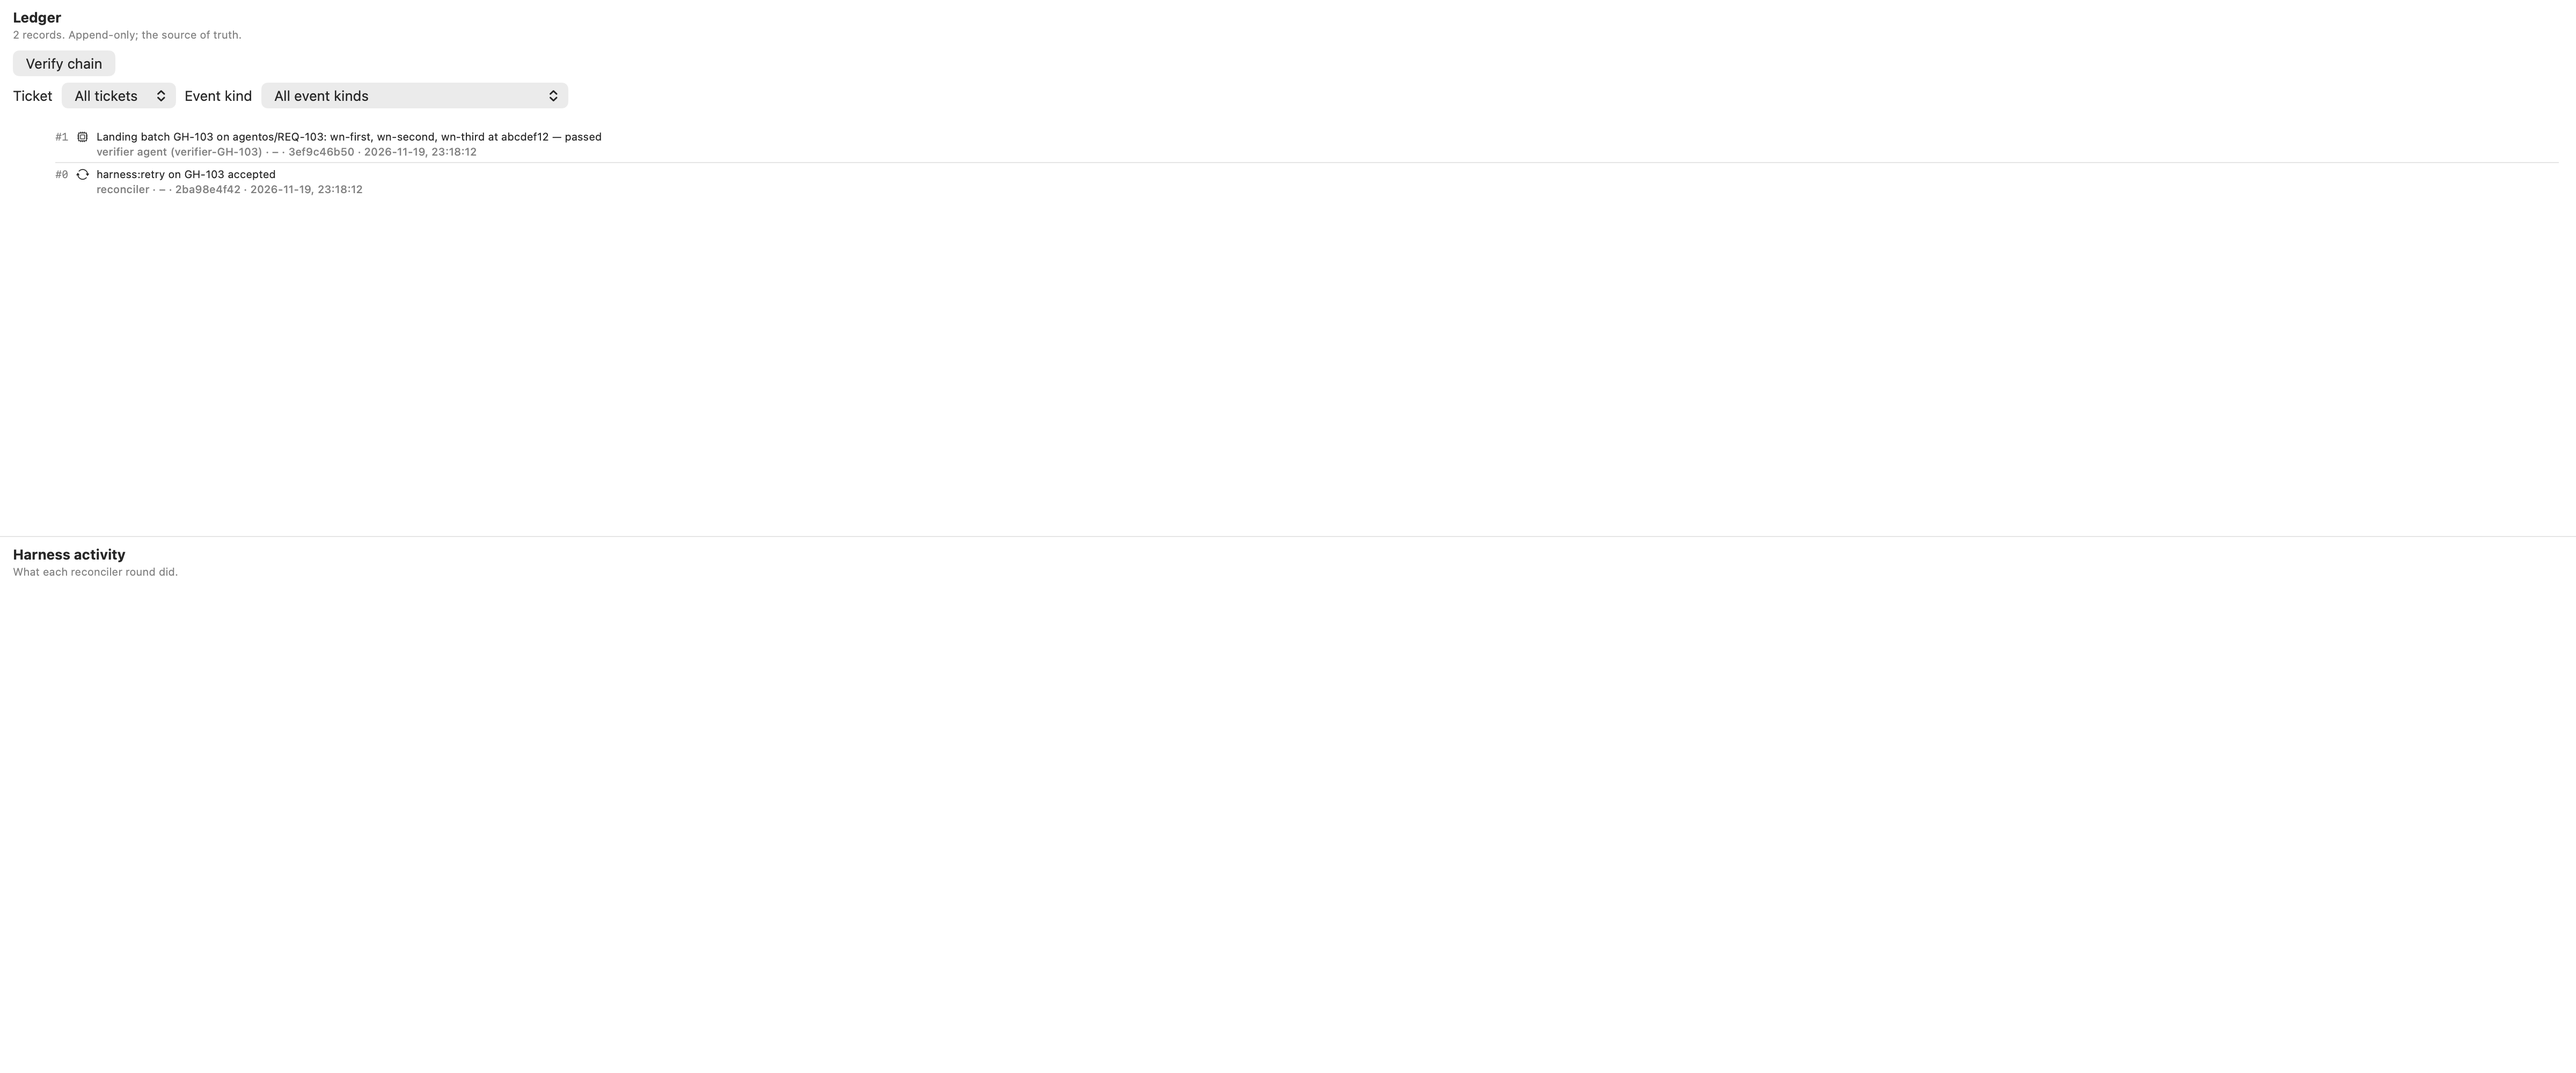
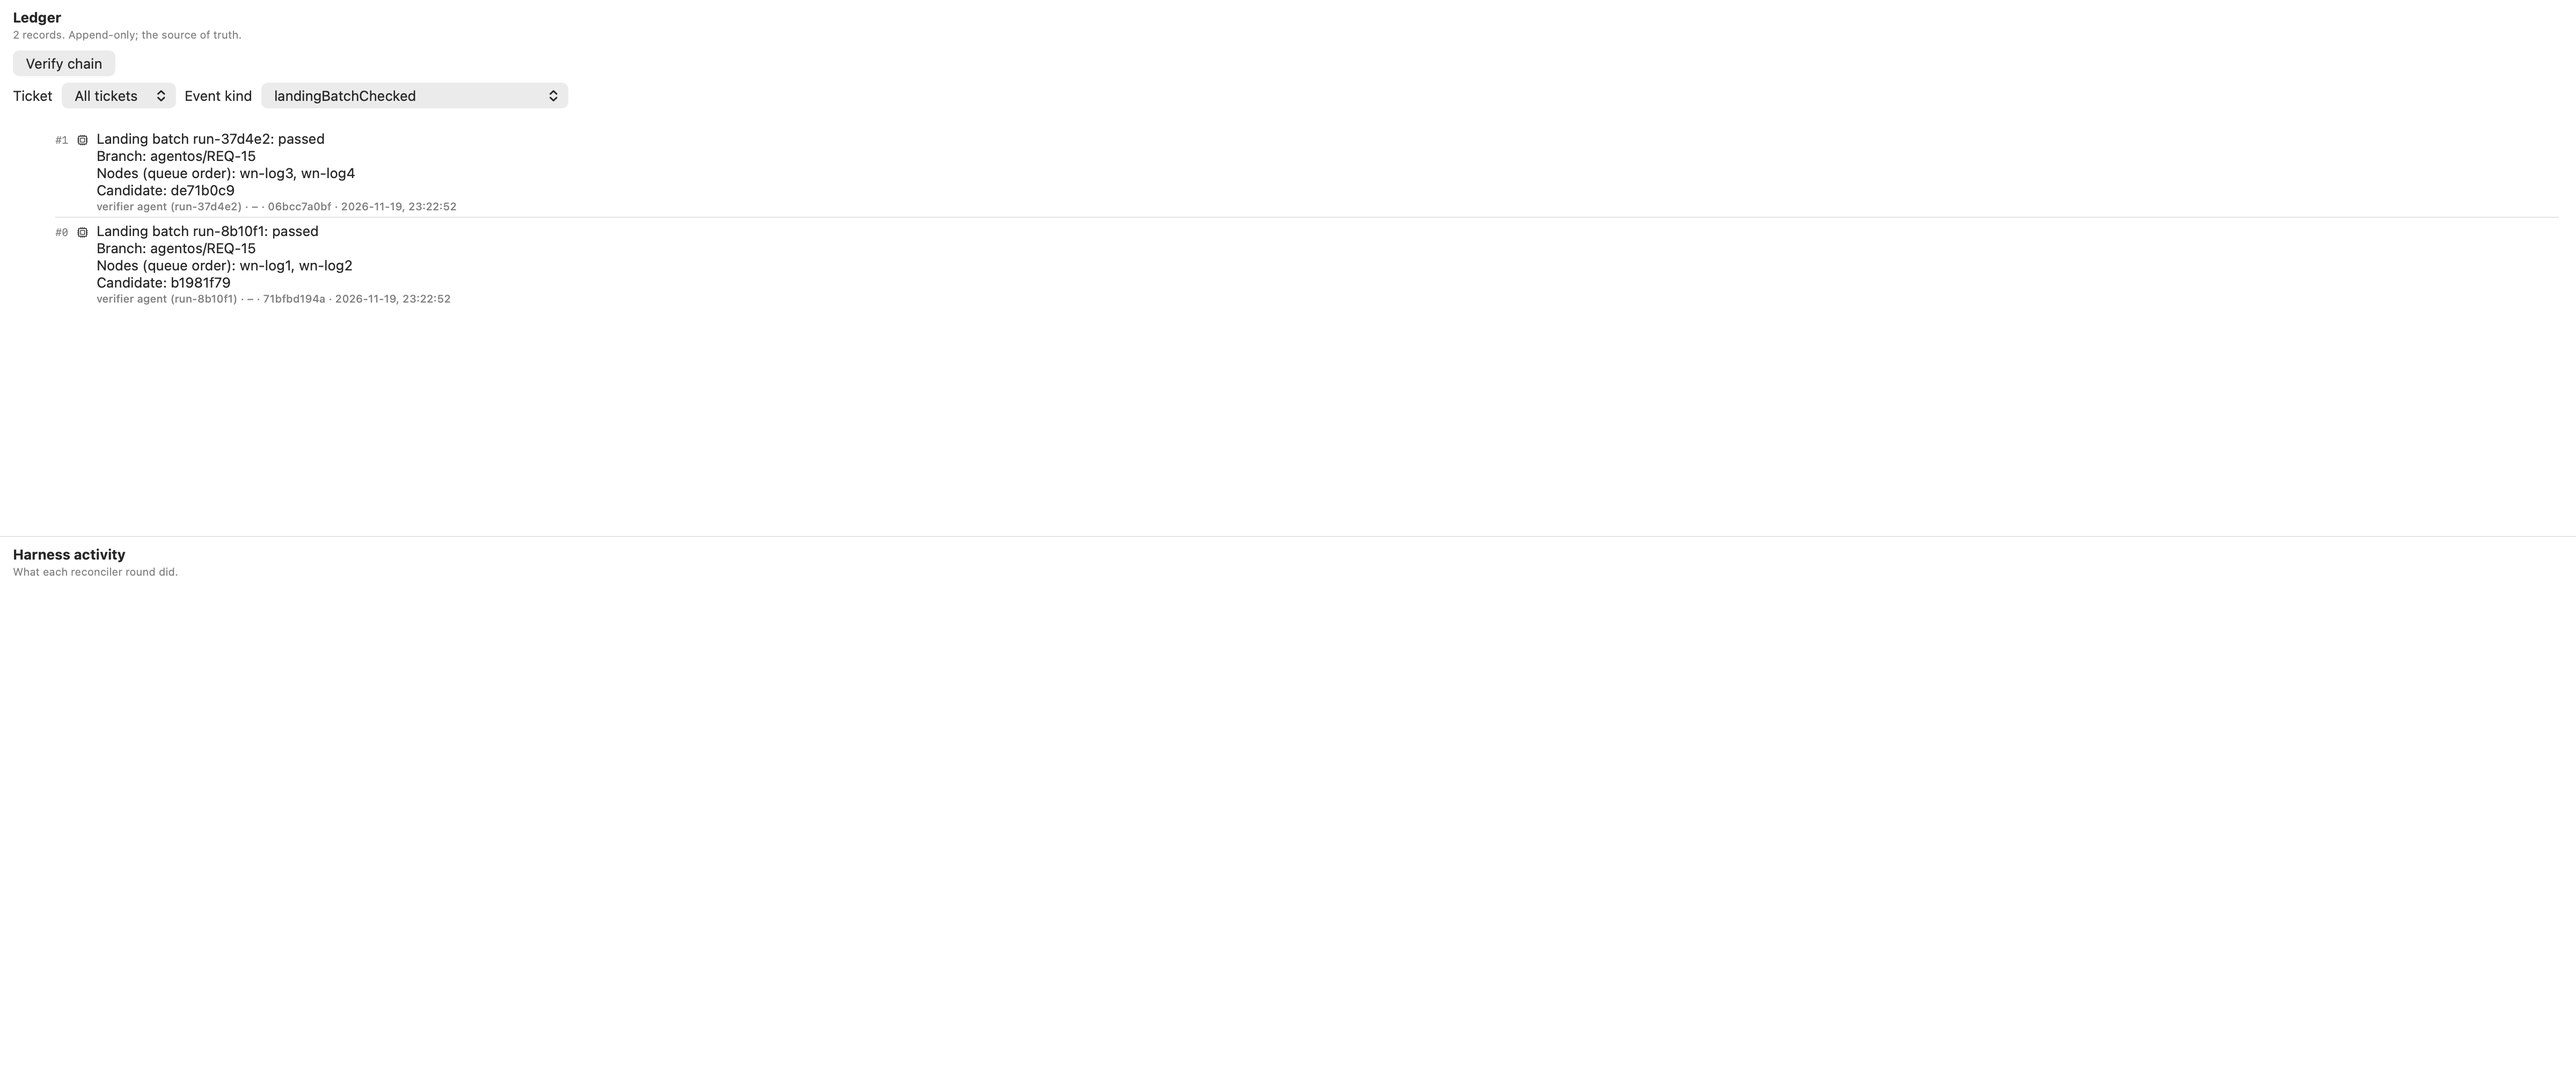
wn-GH-103: Land nodes waiting on one requirement branch together in a passing batch

Changed region(s): [[0.0312, 0.124, 0.2188, 0.279], [0.125, 0.062, 0.1562, 0.093]]

diff --git a/AgentOS/HarnessApp/AgentOSKit/Sources/AgentOSUI/LedgerPane.swift b/AgentOS/HarnessApp/AgentOSKit/Sources/AgentOSUI/LedgerPane.swift
@@ -61,8 +61,17 @@ public struct LedgerPane: View {
                         Text("#\(record.position)").monospaced().foregroundStyle(.secondary).frame(width: 48, alignment: .trailing)
                         Image(systemName: record.event.by.icon).frame(width: 14)
                         VStack(alignment: .leading, spacing: 1) {
-                            Text(record.event.kind.summary)
-                                .lineLimit(record.event.kind.landingBatchCheck == nil ? 2 : nil)
+                            if let batch = record.event.kind.landingBatchCheck {
+                                Text("\(batch.name): \(batch.passed ? "passed" : "failed")\n"
+                                     + "Branch: \(batch.branch)\n"
+                                     + "Nodes (queue order): \(batch.nodes.joined(separator: ", "))\n"
+                                     + "Candidate: \(batch.candidateCommit.prefix(8))")
+                                    .font(.body)
+                                    .fixedSize(horizontal: false, vertical: true)
+                            } else {
+                                Text(record.event.kind.summary)
+                                    .lineLimit(2)
+                            }
                             let nodeName = record.event.node.map { model.ledgerNodeLabel($0) } ?? "–"
                             Text("\(record.event.by.label) · \(nodeName) · \(record.hash.prefix(10)) · \(record.event.at.ledgerStamp)")
                                 .font(.caption2).foregroundStyle(.secondary)
